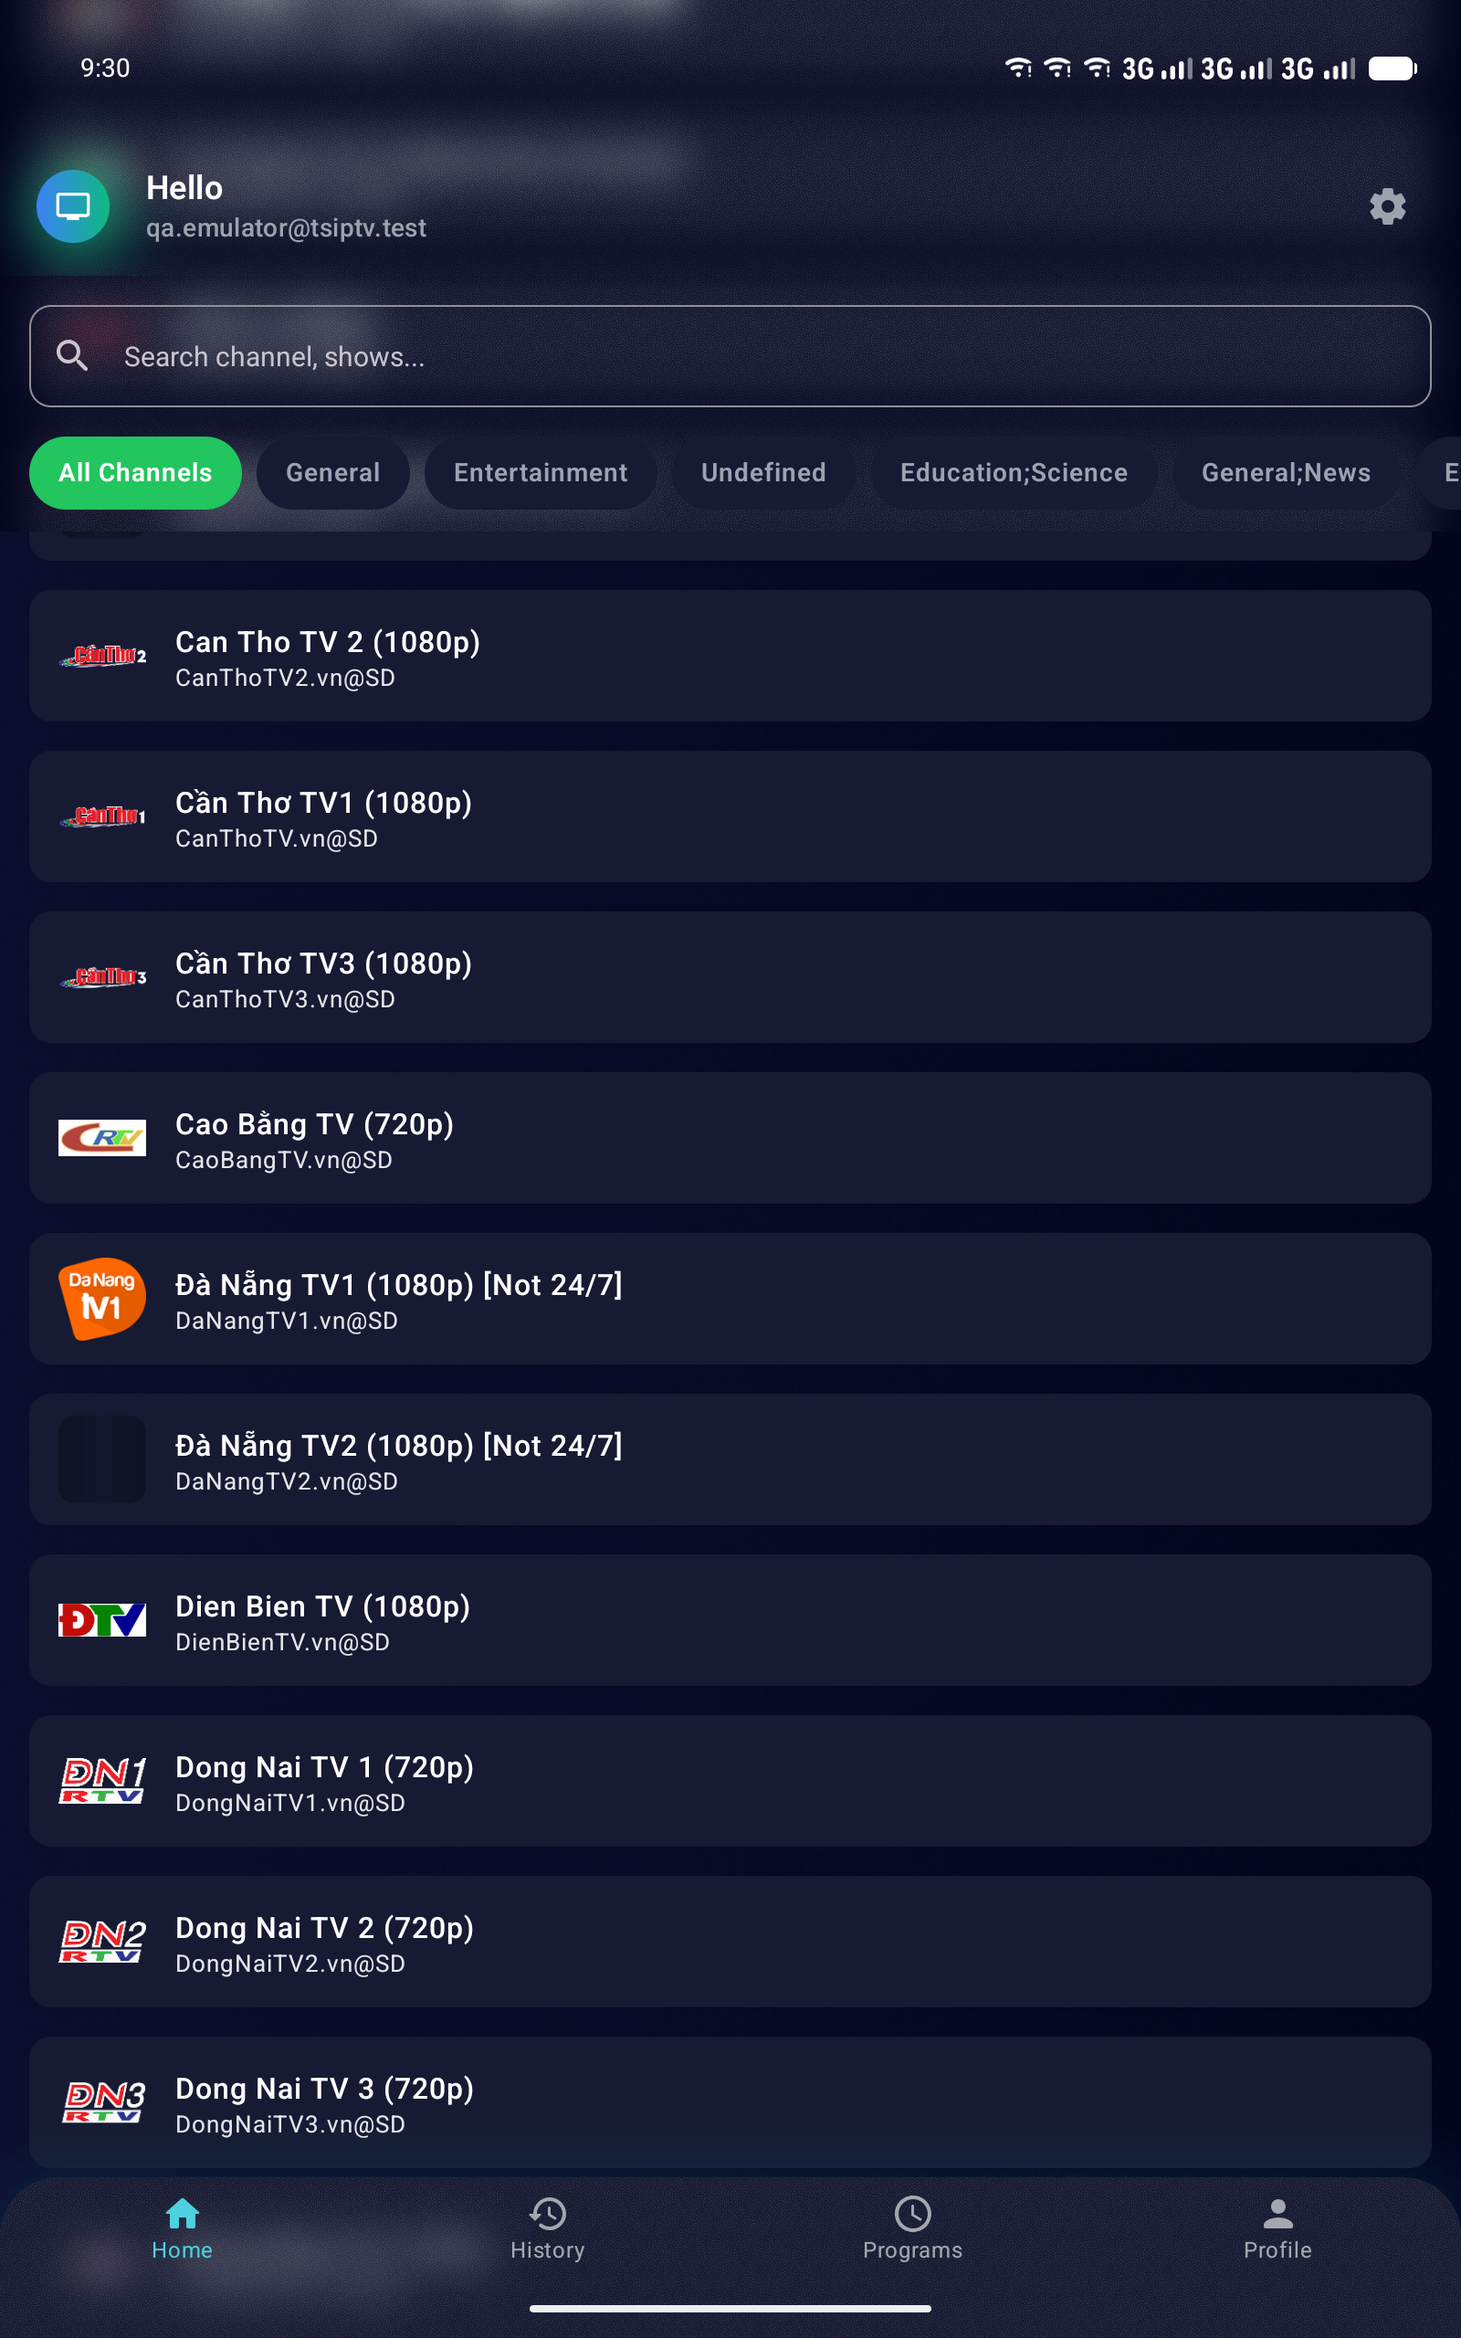
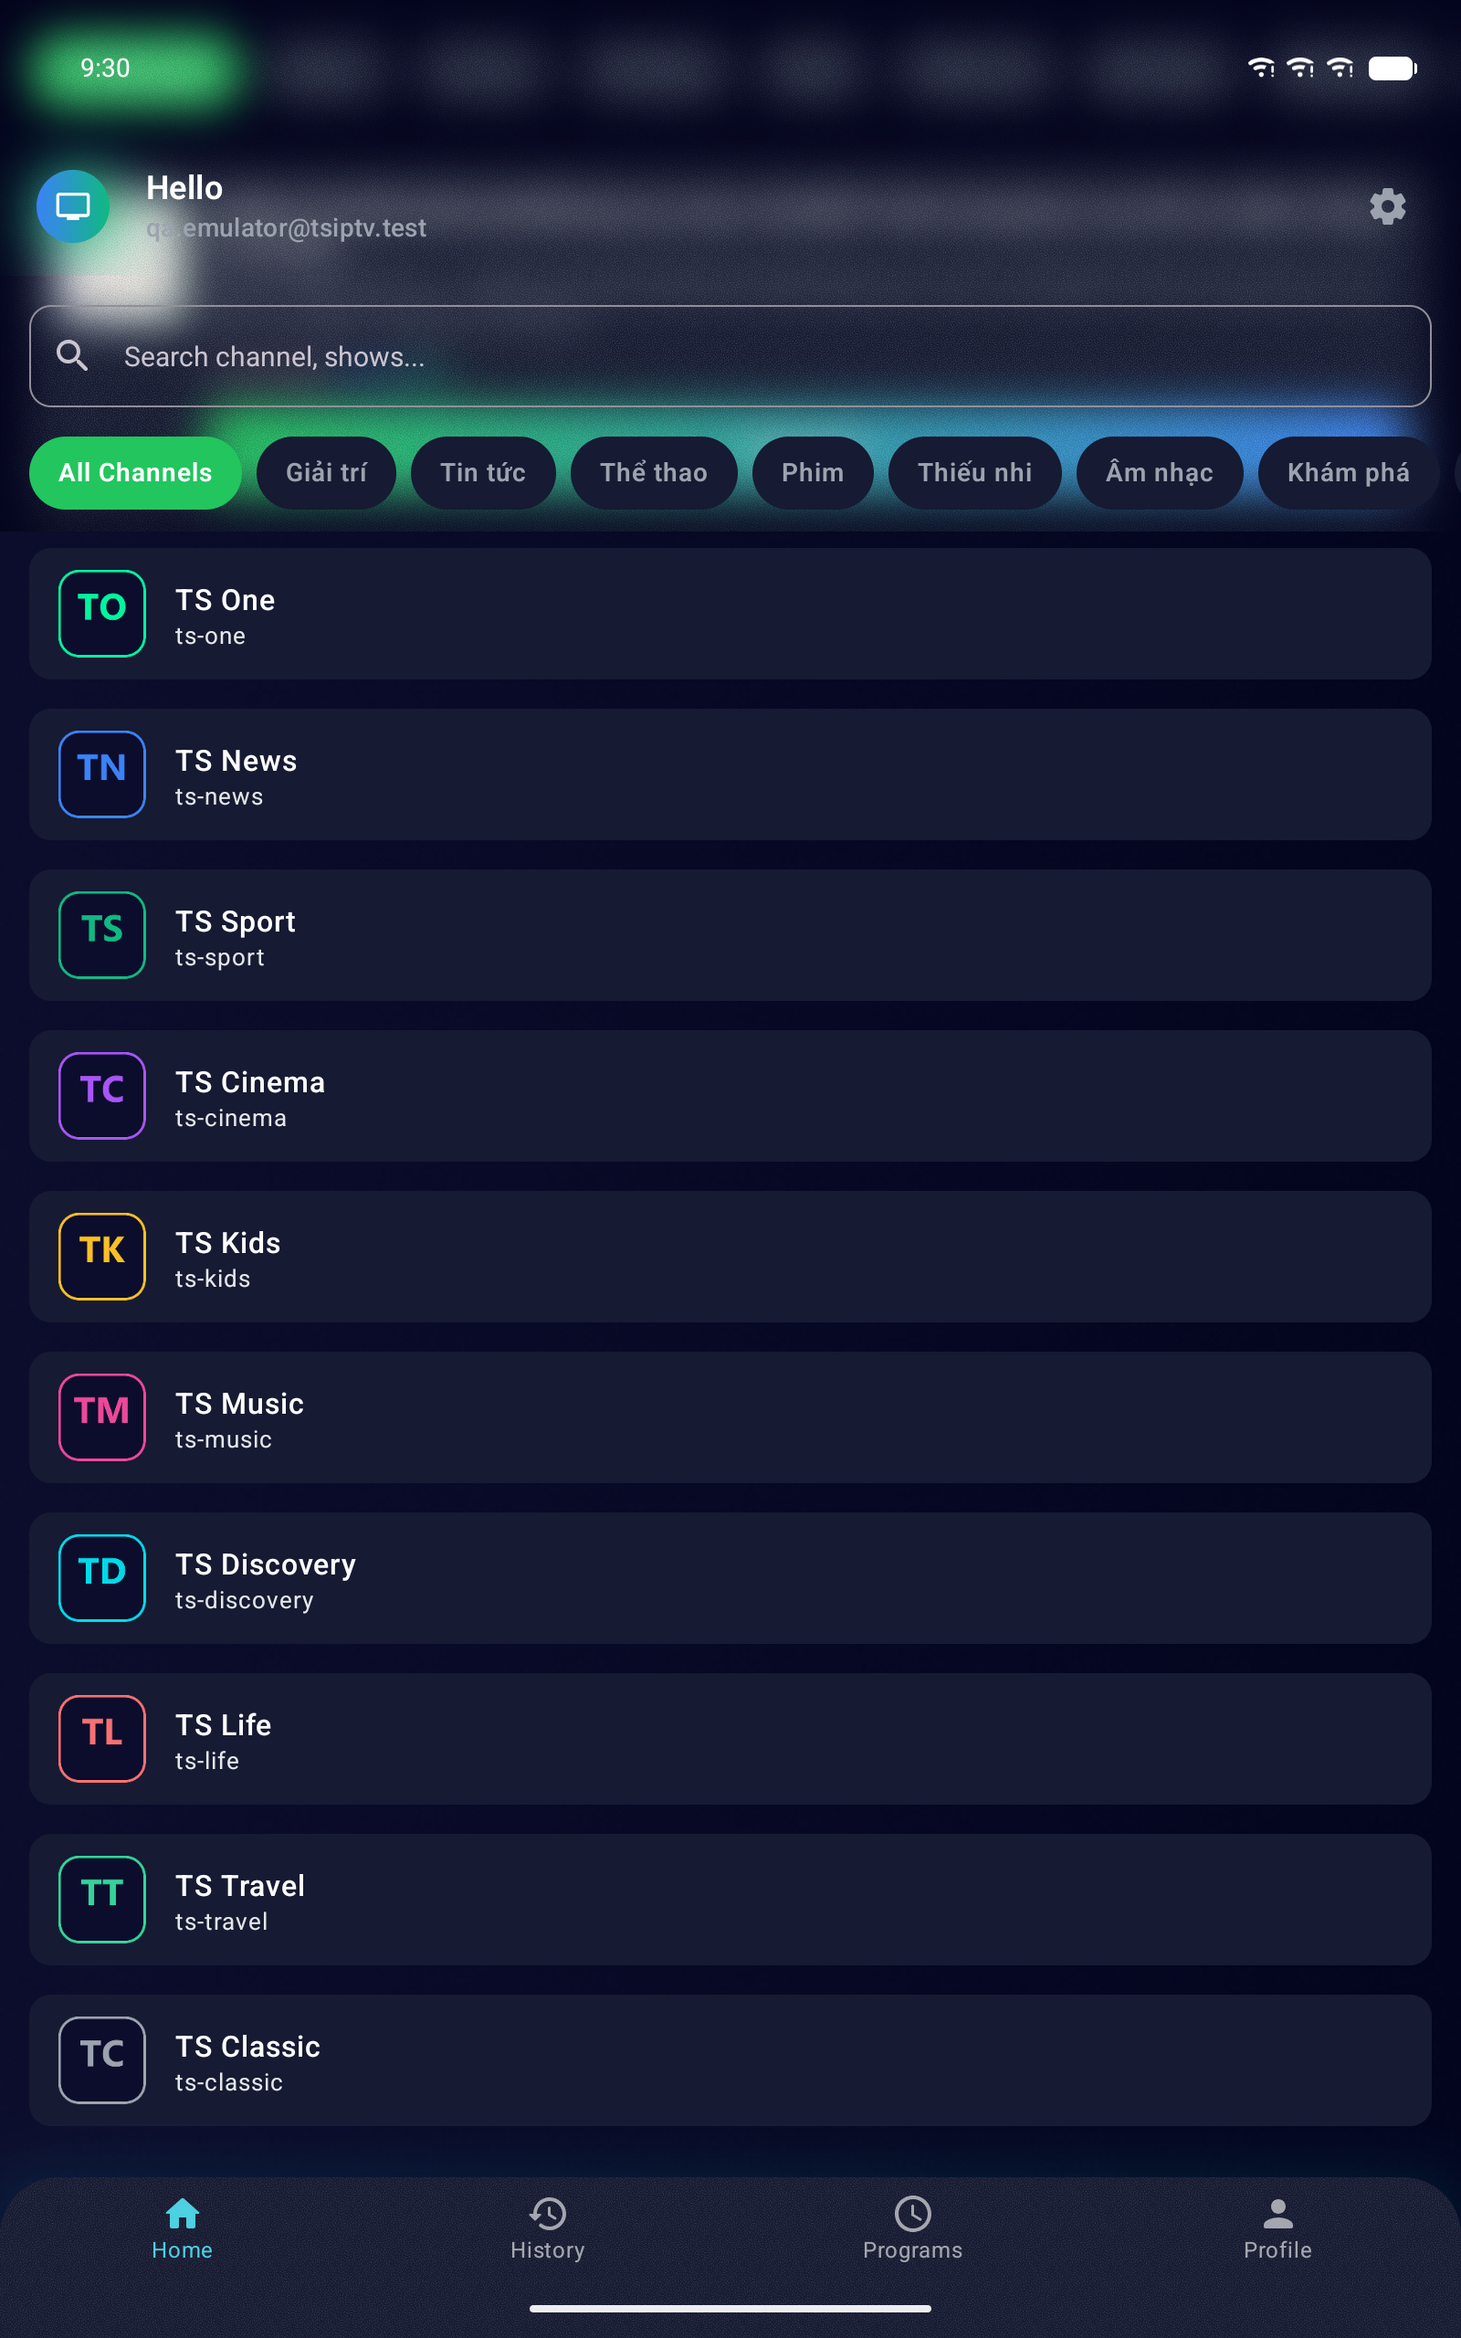
Regenerate store screenshots against a generated demo playlist
The previous screenshots were captured against a real iptv-org playlist, so they
published third-party material: broadcast video frames from the channels that
happened to be on air, station logos (ANTV, Cần Thơ, Đà Nẵng, Dong Nai …) and
broadcaster channel marks. Free-to-air streams are fine to watch; putting a
frame of someone's programme on a Play listing is not, and on an IPTV listing it
is the fastest route to an IP complaint.

play-store/screenshots/make-demo-assets.py now builds a playlist where every
pixel is ours:

- ten invented channels (TS One, TS News, TS Sport …) that map to no real
  broadcaster;
- channel logos drawn from the app's own palette;
- video frames rendered in that palette and stamped "SAMPLE CONTENT — NOT A
  BROADCAST", looped into HLS with ffmpeg and served from the host over
  10.0.2.2 so the player has genuine live video to show.

The generated demo-server/ directory is ~250 MB of HLS segments, so it is
gitignored; only the generator is committed.

Screenshots re-captured: 5 phone, 3 seven-inch, 3 ten-inch, all still within
Play's size and aspect limits. The Programs empty state replaces the history
shot, and the landscape fullscreen shot is dropped — without controls visible it
showed the video frame and none of the app.

One piece of outside imagery remains, in 04-player.png: a Shopee affiliate
offer. That is the app's own monetisation rather than third-party broadcast
[…]

diff --git a/play-store/screenshots/make-demo-assets.py b/play-store/screenshots/make-demo-assets.py
@@ -1,0 +1,193 @@
+#!/usr/bin/env python3
+"""
+Builds a self-contained demo playlist for capturing store screenshots.
+
+Store listings must not show third-party broadcast content: a real playlist puts
+someone else's video frames, station logos and channel marks into the images.
+Everything this script produces is original artwork in the app's own palette,
+with invented channel names, so the screenshots carry no third-party rights.
+
+    python play-store/screenshots/make-demo-assets.py
+    python -m http.server 8099 --directory <out dir>
+
+Then import http://10.0.2.2:8099/demo.m3u in an emulator.
+
+Requires Pillow and ffmpeg on PATH.
+"""
+
+import os
+import shutil
+import subprocess
+import sys
+
+from PIL import Image, ImageDraw, ImageFont
+
+OUT = os.path.join(os.path.dirname(os.path.abspath(__file__)), "demo-server")
+
+# Same palette as composeApp/.../ui/themes/TSColors.kt
+NAVY_TOP = (12, 13, 44)
+NAVY_BOTTOM = (3, 4, 29)
+ACCENT = (0, 245, 160)
+CYAN = (0, 217, 233)
+WHITE = (243, 244, 246)
+
+FONTS = [
+    "C:/Windows/Fonts/segoeuib.ttf",
+    "C:/Windows/Fonts/arialbd.ttf",
+    "/System/Library/Fonts/Supplemental/Arial Bold.ttf",
+    "/usr/share/fonts/truetype/dejavu/DejaVuSans-Bold.ttf",
+]
+
+# Invented channels. Nothing here maps to a real broadcaster.
+CHANNELS = [
+    ("ts-one",       "TS One",         "Giải trí",  (0, 245, 160)),
+    ("ts-news",      "TS News",        "Tin tức",   (59, 130, 246)),
+    ("ts-sport",     "TS Sport",       "Thể thao",  (16, 185, 129)),
+    ("ts-cinema",    "TS Cinema",      "Phim",      (168, 85, 247)),
+    ("ts-kids",      "TS Kids",        "Thiếu nhi", (251, 191, 36)),
+    ("ts-music",     "TS Music",       "Âm nhạc",   (236, 72, 153)),
+    ("ts-discovery", "TS Discovery",   "Khám phá",  (0, 217, 233)),
+    ("ts-life",      "TS Life",        "Đời sống",  (248, 113, 113)),
+    ("ts-travel",    "TS Travel",      "Du lịch",   (52, 211, 153)),
+    ("ts-classic",   "TS Classic",     "Phim",      (156, 163, 175)),
+]
+
+
+def font(size):
+    for path in FONTS:
+        if os.path.exists(path):
+            return ImageFont.truetype(path, size)
+    return ImageFont.load_default()
+
+
+def vertical_gradient(size, top, bottom):
+    w, h = size
+    strip = Image.new("RGB", (1, h))
+    px = strip.load()
+    for y in range(h):
+        t = y / max(h - 1, 1)
+        px[0, y] = tuple(round(a + (b - a) * t) for a, b in zip(top, bottom))
+    return strip.resize((w, h), Image.BICUBIC)
+
+
+def centered(draw, y, text, fnt, fill, width):
+    w = draw.textbbox((0, 0), text, font=fnt)[2]
+    draw.text(((width - w) / 2, y), text, font=fnt, fill=fill)
+
+
+def make_logo(key, name, accent, size=256):
+    """Channel logo: accent-tinted tile with the channel's initials."""
+    ss = 4
+    img = Image.new("RGBA", (size * ss, size * ss), (0, 0, 0, 0))
+    d = ImageDraw.Draw(img)
+    d.rounded_rectangle(
+        [0, 0, size * ss - 1, size * ss - 1],
+        radius=int(size * ss * 0.24),
+        fill=NAVY_TOP + (255,),
+        outline=accent + (255,),
+        width=int(size * ss * 0.03),
+    )
+    initials = "".join(part[0] for part in name.split()[:2]).upper()
+    f = font(int(size * ss * 0.42))
+    bbox = d.textbbox((0, 0), initials, font=f)
+    d.text(
+        ((size * ss - bbox[2]) / 2, (size * ss - bbox[3]) / 2 - bbox[1]),
+        initials, font=f, fill=accent + (255,),
+    )
+    img = img.resize((size, size), Image.LANCZOS)
+    path = os.path.join(OUT, "logos", f"{key}.png")
+    os.makedirs(os.path.dirname(path), exist_ok=True)
+    img.save(path)
+    return path
+
+
+def make_frame(key, name, group, accent, w=1920, h=1080):
+    """The video frame each demo channel 'broadcasts'."""
+    img = vertical_gradient((w, h), NAVY_TOP, NAVY_BOTTOM).convert("RGB")
+    d = ImageDraw.Draw(img)
+
+    # Faint concentric arcs, echoing the app icon.
+    for r in (340, 520, 700, 880):
+        d.arc([w // 2 - r, h // 2 - r, w // 2 + r, h // 2 + r],
+              start=0, end=360, fill=(20, 32, 60), width=3)
+
+    centered(d, h * 0.30, name, font(int(h * 0.13)), WHITE, w)
+    centered(d, h * 0.47, group.upper(), font(int(h * 0.045)), accent, w)
+
+    # An unmistakable marker that this is not real broadcast footage.
+    badge = "SAMPLE CONTENT — NOT A BROADCAST"
+    f = font(int(h * 0.030))
+    bw = d.textbbox((0, 0), badge, font=f)[2]
+    bx, by = (w - bw) / 2, h * 0.62
+    pad = h * 0.018
+    d.rounded_rectangle(
+        [bx - pad * 1.6, by - pad, bx + bw + pad * 1.6, by + f.size + pad],
+        radius=int(pad * 1.6), fill=(18, 22, 48), outline=(40, 52, 88), width=2,
+    )
+    d.text((bx, by), badge, font=f, fill=(140, 150, 175))
+
+    centered(d, h * 0.80, "TS IPTV", font(int(h * 0.05)), (90, 100, 125), w)
+
+    path = os.path.join(OUT, "frames", f"{key}.png")
+    os.makedirs(os.path.dirname(path), exist_ok=True)
+    img.save(path)
+    return path
+
+
+def make_stream(key, frame_path, seconds=900):
+    """Loops one frame into a long HLS stream, so the player has live video."""
+    out_dir = os.path.join(OUT, "streams", key)
+    os.makedirs(out_dir, exist_ok=True)
+    subprocess.run(
+        [
+            "ffmpeg", "-y", "-loglevel", "error",
+            "-loop", "1", "-framerate", "5", "-i", frame_path,
+            "-f", "lavfi", "-i", "anullsrc=channel_layout=stereo:sample_rate=44100",
+            "-t", str(seconds),
+            "-c:v", "libx264", "-preset", "ultrafast", "-tune", "stillimage",
+            "-pix_fmt", "yuv420p", "-g", "10", "-b:v", "500k",
+            "-c:a", "aac", "-b:a", "64k",
+            "-f", "hls", "-hls_time", "6", "-hls_list_size", "0",
+            "-hls_segment_filename", os.path.join(out_dir, "seg%04d.ts"),
+            os.path.join(out_dir, "index.m3u8"),
+        ],
+        check=True,
+    )
+    return f"streams/{key}/index.m3u8"
+
+
+def main():
+    if shutil.which("ffmpeg") is None:
+        print("ffmpeg not found on PATH", file=sys.stderr)
+        return 1
+
+    if os.path.isdir(OUT):
+        shutil.rmtree(OUT)
+    os.makedirs(OUT, exist_ok=True)
+
+    base = "http://10.0.2.2:8099"
+    lines = ['#EXTM3U', '#PLAYLIST:TS IPTV Demo']
+
+    for key, name, group, accent in CHANNELS:
+        make_logo(key, name, accent)
+        frame = make_frame(key, name, group, accent)
+        stream = make_stream(key, frame)
+        lines.append(
+            f'#EXTINF:-1 tvg-id="{key}" tvg-name="{name}" '
+            f'tvg-logo="{base}/logos/{key}.png" group-title="{group}",{name}'
+        )
+        lines.append(f"{base}/{stream}")
+        print("built", name)
+
+    with open(os.path.join(OUT, "demo.m3u"), "w", encoding="utf-8", newline="\n") as f:
+        f.write("\n".join(lines) + "\n")
+
+    print(f"\nWrote {OUT}")
+    print(f"Serve:  python -m http.server 8099 --directory {OUT}")
+    print(f"Import: {base}/demo.m3u")
+    return 0
+
+
+
+if __name__ == "__main__":
+    sys.exit(main())

diff --git a/play-store/screenshots/README.md b/play-store/screenshots/README.md
@@ -1,18 +1,39 @@
 # Store screenshots
 
-Captured from a running Android emulator on 2026-09-16 (API 37), against the
-`iptv-org` Vietnam playlist — free-to-air channels served by the broadcasters'
-own servers, so nothing here risks an IP complaint on an IPTV listing.
+Captured from a running Android emulator on 2026-09-16 (API 37).
+
+**No third-party content appears in any of these images.** Everything on screen
+is generated by `make-demo-assets.py`: invented channel names (TS One, TS News,
+TS Sport …), original channel logos, and video frames drawn in the app's own
+palette and stamped "SAMPLE CONTENT — NOT A BROADCAST". A store listing built on
+a real playlist would publish someone else's broadcast frames, station logos and
+channel marks, which is exactly the kind of thing that attracts an IP complaint
+on an IPTV listing.
 
 | Folder | Size | Ratio | Count |
 | --- | --- | --- | --- |
-| `phone/` | 1080×1920 (one 1920×1080) | 9:16 / 16:9 | 6 |
+| `phone/` | 1080×1920 | 9:16 | 5 |
 | `tablet-7in/` | 1200×1920 | 10:16 | 3 |
 | `tablet-10in/` | 1600×2560 | 10:16 | 3 |
 
 All pass Play's constraints: every side within 320–3840 px, and no side more
 than twice the other. **The emulator's native 1080×2424 is 2.24:1 and would be
 rejected**, which is why the captures override the display size.
+
+## Building the demo playlist
+
+```bash
+python play-store/screenshots/make-demo-assets.py
+python -m http.server 8099 --bind 0.0.0.0   --directory play-store/screenshots/demo-server
+```
+
+Then in the emulator, add an IPTV source pointing at
+`http://10.0.2.2:8099/demo.m3u`. The generated `demo-server/` directory is about
+250 MB of HLS segments and is gitignored; rebuild it whenever you need it.
+
+Note the emulator keyboard capitalises after `/`, so the URL may arrive as
+`Demo.m3u`. On Windows that still resolves; on a case-sensitive host, retype the
+last segment.
 
 ## Regenerating
 
@@ -46,10 +67,12 @@ after changing size so Compose re-measures from scratch.
 ## Before uploading
 
 - Upload in the listed order; the first screenshot is what most people see.
-- `05-fullscreen-landscape.png` is the only landscape shot. Play accepts mixed
-  orientations, but a listing reads better with one orientation — either drop it
-  or build a landscape-only set.
-- The affiliate offer is visible in `03-player.png`. That is the real app and
-  accurate screenshots are a policy requirement, so do not retouch it out. If
-  you would rather it not lead the listing, change where the offer sits in the
-  app instead.
+- `04-player.png` still shows a Shopee affiliate offer. That is the app's own
+  monetisation, not third-party broadcast content, so it is a business decision
+  rather than a rights problem — but it is the one piece of outside imagery left
+  in the set. The offers come from Remote Config (`ads_url`) and are independent
+  of the playlist, so they cannot be removed by changing the demo data. To ship
+  an entirely ad-free set, drop `04-player.png` and lead with the tablet channel
+  list, which is the cleanest image of the group.
+- Do not swap in a real playlist "to look more convincing". Accurate screenshots
+  are a Play requirement, and the app genuinely ships with no channels.

diff --git a/play-store/RELEASE-CHECKLIST.md b/play-store/RELEASE-CHECKLIST.md
@@ -105,6 +105,11 @@ Full pass on a running device, not just a build:
   screen shows one very wide row per channel. Play may flag the listing as not
   tablet-optimised.
 - **App name is inconsistent:** `TSIPTV` in-app vs `TS IPTV` on the launcher.
+- **Overlay backgrounds are transparent.** Two places draw an overlay with no
+  opaque background, so whatever is underneath bleeds through: the floating
+  mini-player on Home (the channel list and the group chips show through it),
+  and the affiliate card on the player screen while scrolling (the channel
+  title shows through it). Same class of bug in both.
 - **A test account was created** during this pass, `qa.emulator@tsiptv.test`.
   Delete it in Firebase Console → Authentication when you no longer need it.
 
@@ -136,13 +141,18 @@ Full pass on a running device, not just a build:
 | --- | --- | --- |
 | App icon | 512×512 PNG, 32-bit | ✅ `brand/play-icon-512.png` |
 | Feature graphic | 1024×500 PNG/JPG, no alpha | ✅ `brand/feature-graphic-1024x500.png` |
-| Phone screenshots | 2–8, min 1080px on the short side, 16:9 or 9:16 | ✅ `play-store/screenshots/phone/` (6) |
+| Phone screenshots | 2–8, min 1080px on the short side, 16:9 or 9:16 | ✅ `play-store/screenshots/phone/` (5) |
 | 7" tablet screenshots | optional, up to 8 | ✅ `play-store/screenshots/tablet-7in/` (3) |
 | 10" tablet screenshots | optional, up to 8 | ✅ `play-store/screenshots/tablet-10in/` (3) |
 | Promo video | optional YouTube URL | ❌ |
 
-Captured from a running emulator; see
-`play-store/screenshots/README.md` for how to regenerate them.
+Captured from a running emulator against a **generated demo playlist**, not a
+real one: invented channel names, original logos and video frames stamped
+"SAMPLE CONTENT — NOT A BROADCAST", all produced by
+`play-store/screenshots/make-demo-assets.py`. Screenshots taken against a real
+playlist would have published third-party broadcast frames, station logos and
+channel marks — the fastest route to an IP complaint on an IPTV listing. See
+`play-store/screenshots/README.md` to rebuild them.
 
 ## Console sections to complete
 
